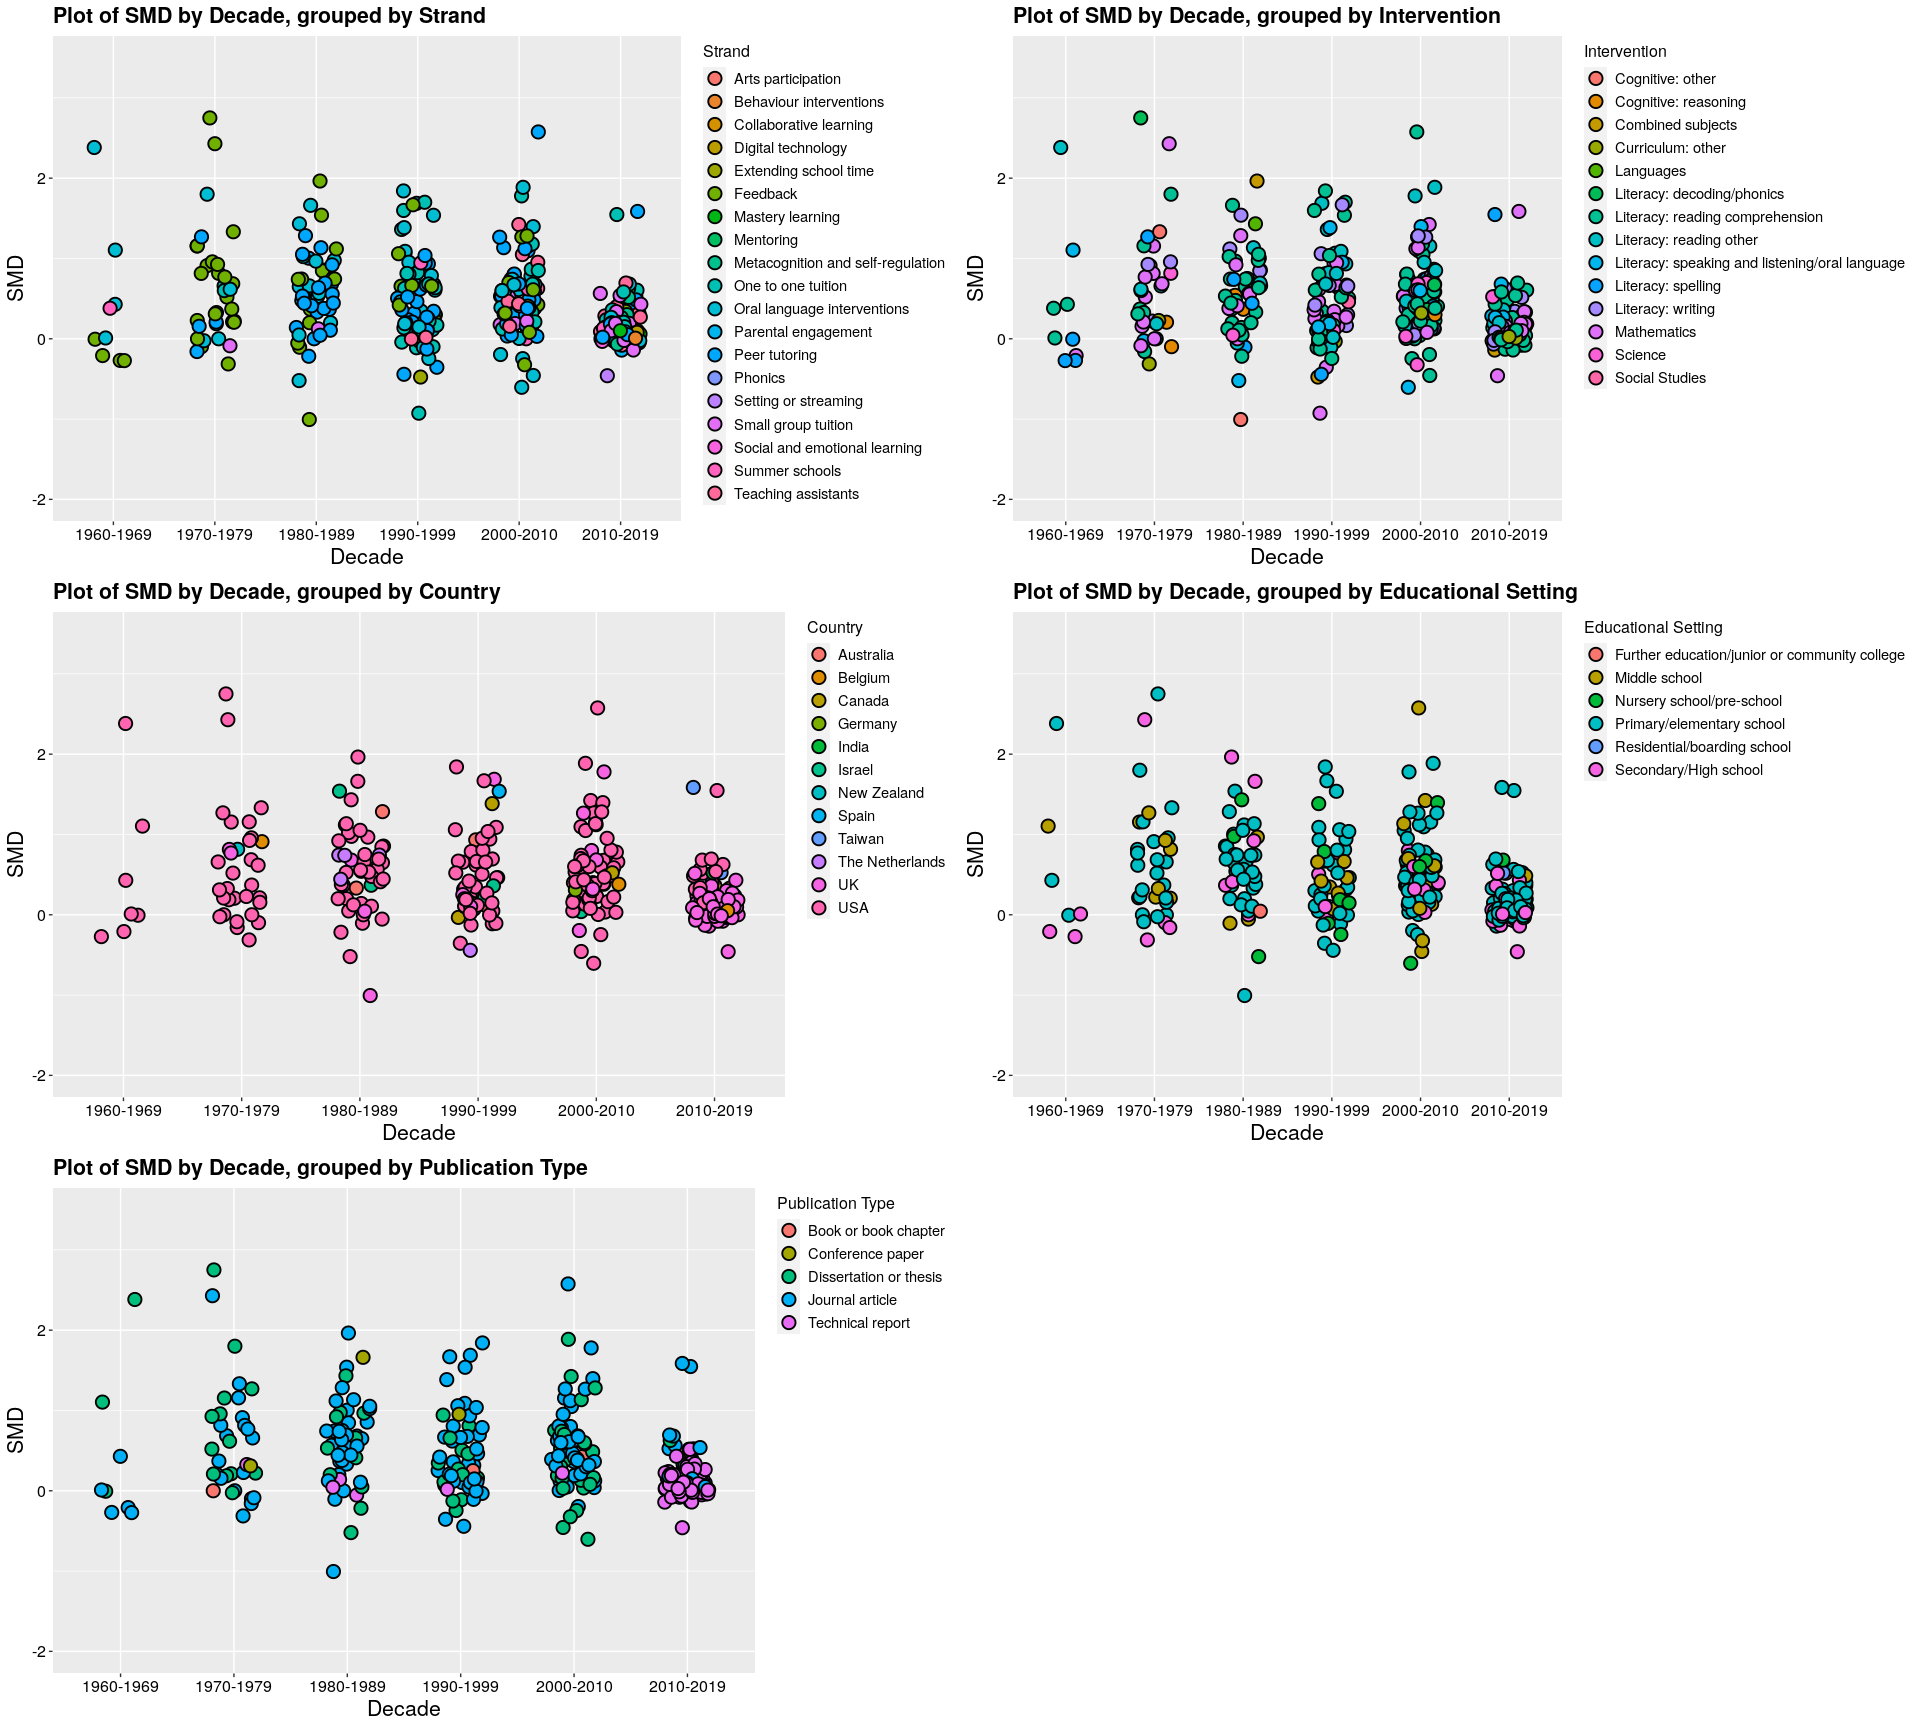
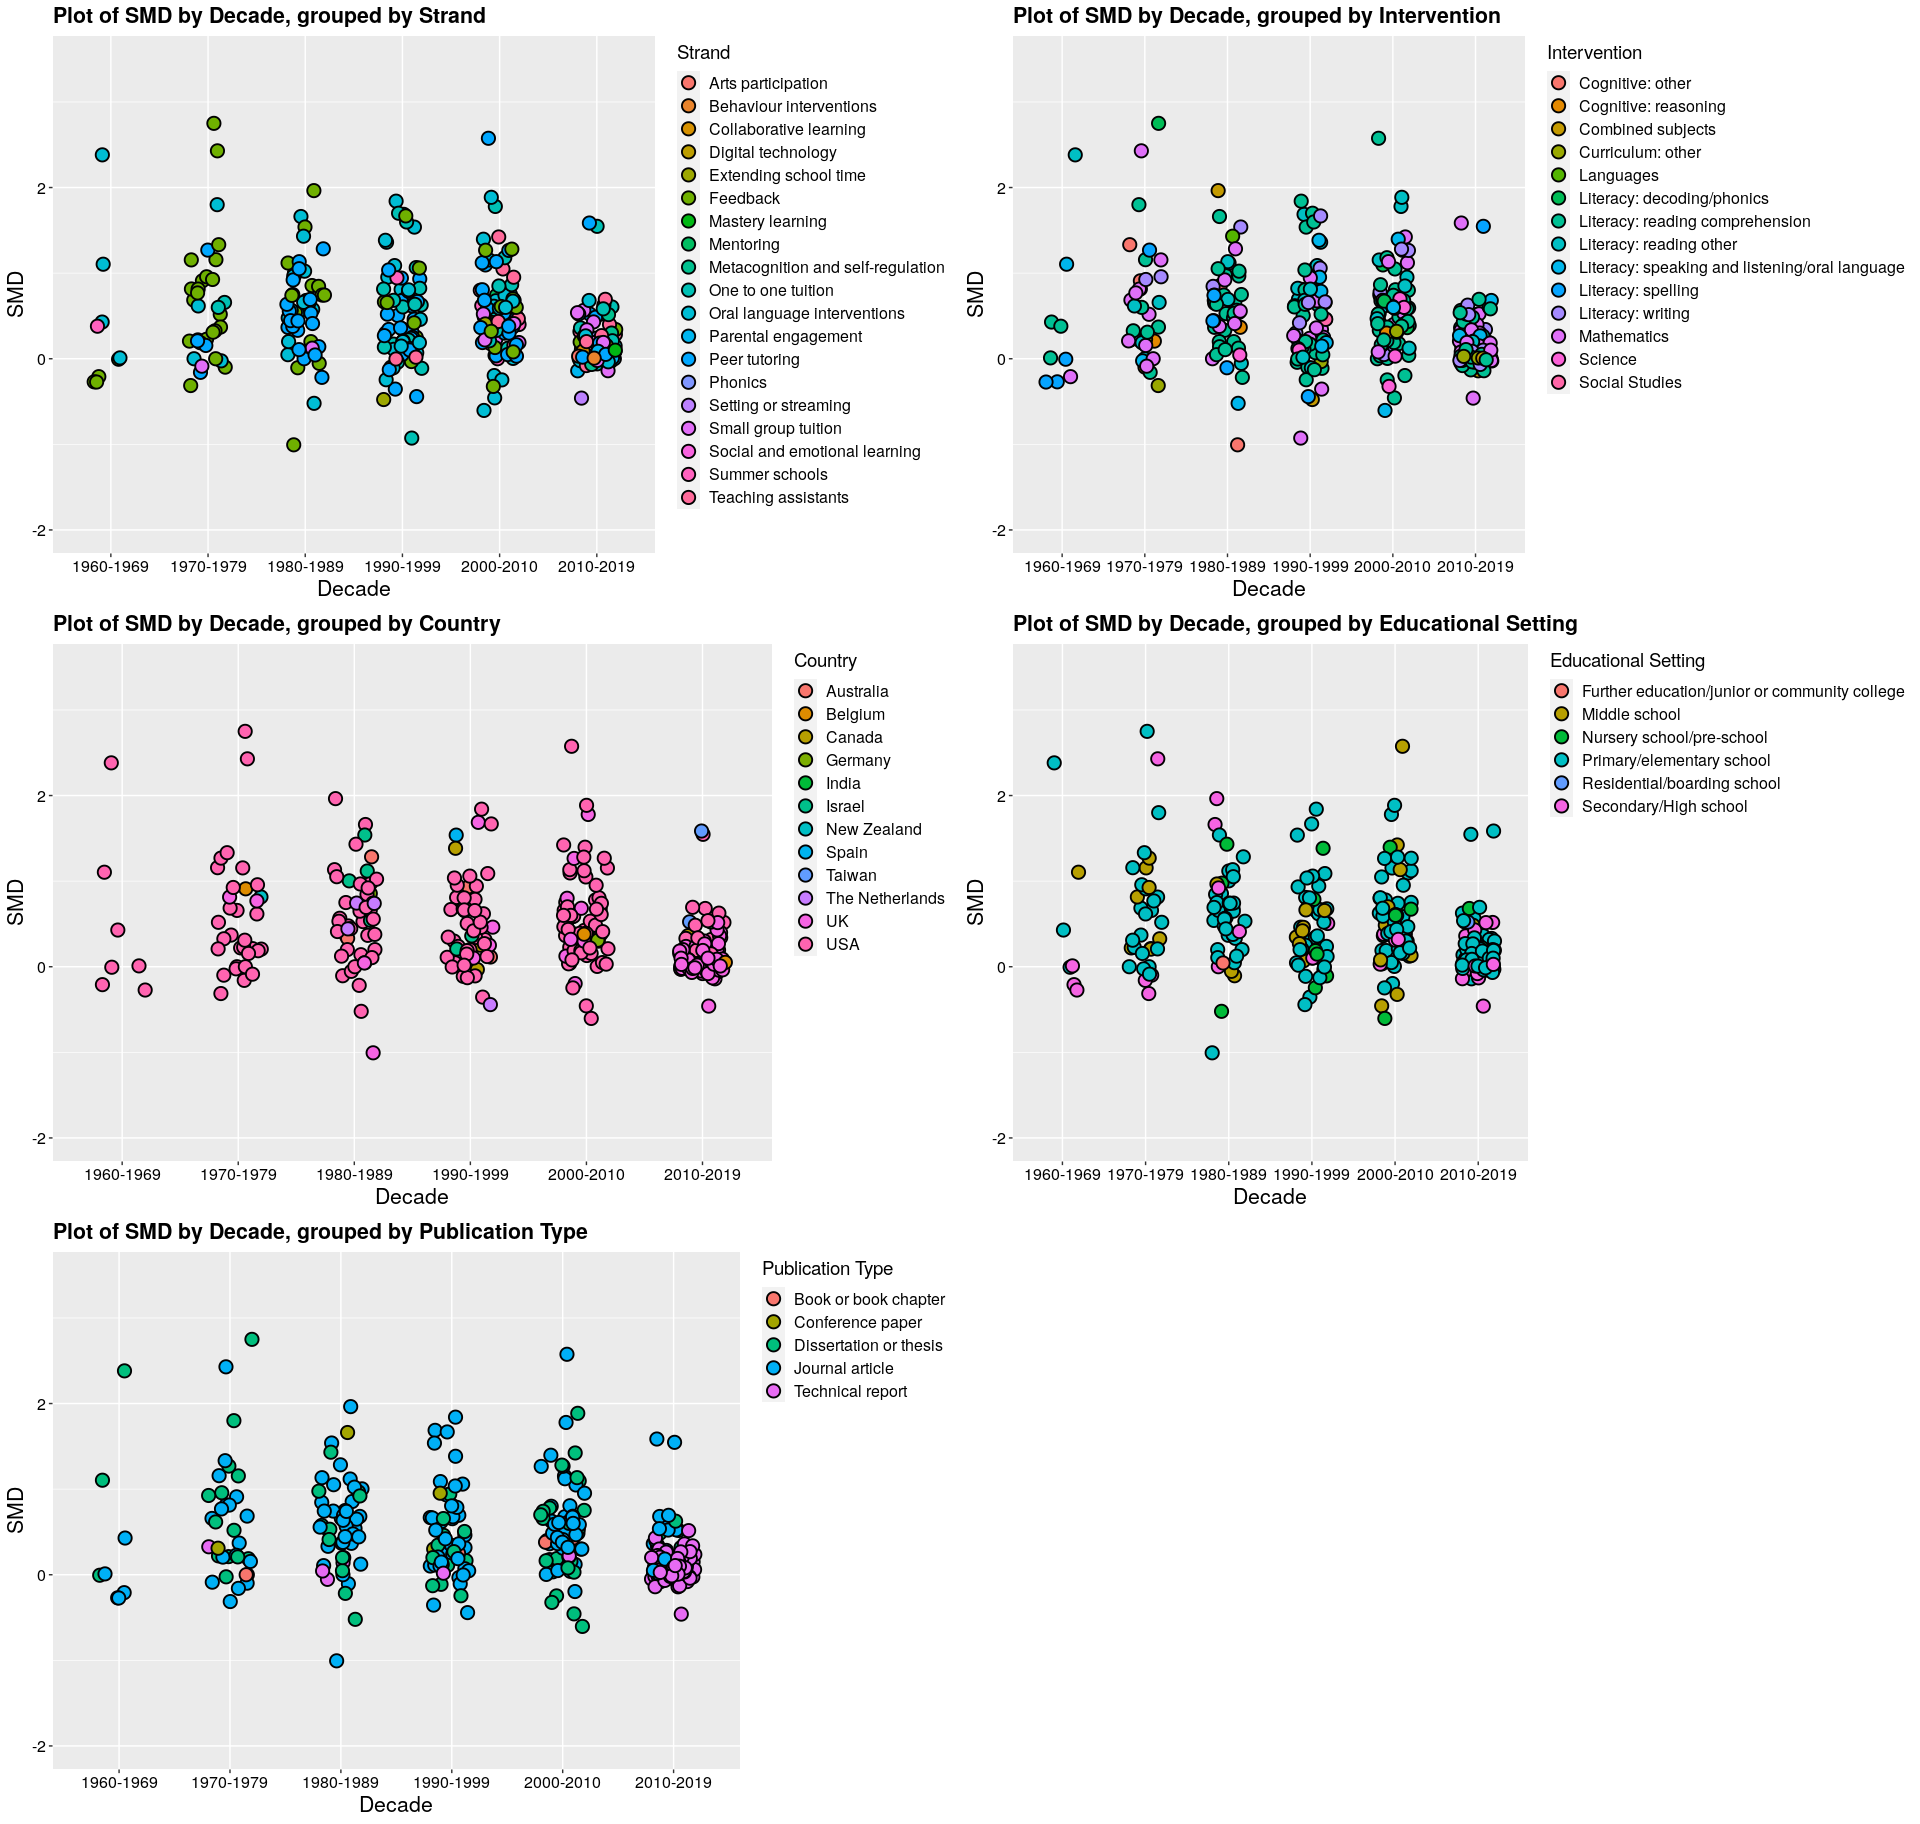
increased dot plot sizes, should be clearer

diff --git a/Master.md b/Master.md
@@ -926,7 +926,7 @@ Primary_plot
 
 ![](Master_figs/unnamed-chunk-7-1.png)<!-- -->
 
-**Subset 'Primary/elementary school' & 'Secondary/High school' data (Primary outcomes only), then from each of those get "Feedback" strand data only**
+**Subset 'USA' and 'UK' data (Primary outcomes only), then from each of those get "Feedback" strand data only**
 
 ```r
 countries <- primary_outcome %>% 
@@ -1205,8 +1205,8 @@ gglayers <- list(
         axis.text.y = element_text(colour = "black", size=12)),
   theme(axis.title.x = element_text(colour = "black", size=16),
         axis.title.y = element_text(colour = "black", size=16)),
-  theme(legend.title = element_text(color = "black", size = 12),
-        legend.text = element_text(color = "black", size = 11)),
+  theme(legend.title = element_text(color = "black", size = 14),
+        legend.text = element_text(color = "black", size = 12)),
   theme(plot.title = element_text(face="bold", colour="black", size="16"))
 )
 
